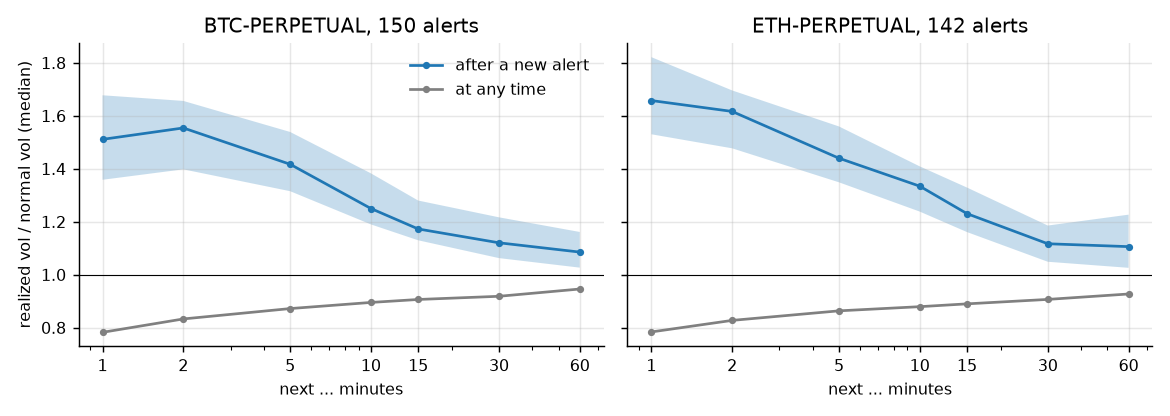
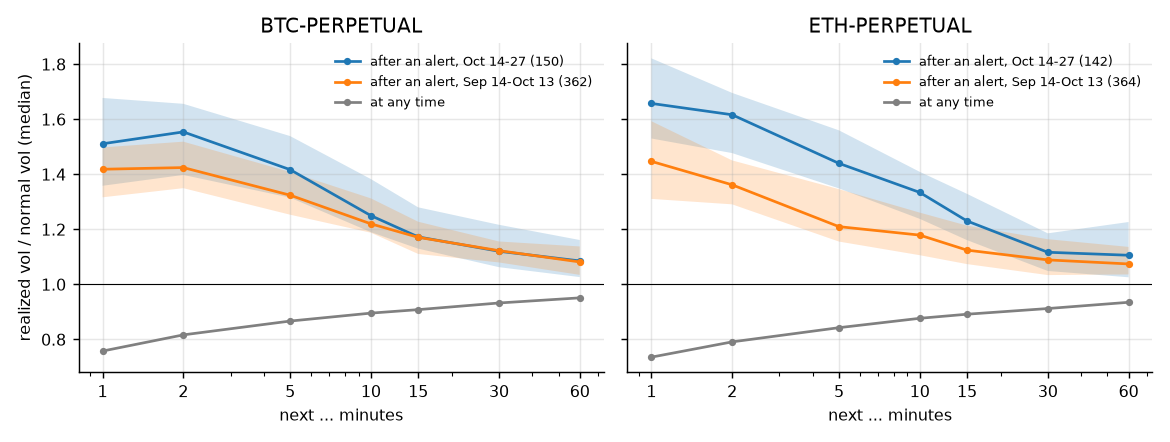
Add a held-out month to the evaluation and a dashboard screenshot

diff --git a/scripts/make_figures.py b/scripts/make_figures.py
@@ -1,11 +1,13 @@
 """Regenerate the figures in docs/img from the Deribit trade tape.
 
-python scripts/make_figures.py --end 2026-10-28 --days 14
+python scripts/make_figures.py
+
+Samples: 2026-10-14 to 2026-10-27 (the period the README was first written on) and
+2026-09-14 to 2026-10-13 (held out, analyzed afterwards with the same parameters).
 """
 
 from __future__ import annotations
 
-import argparse
 from pathlib import Path
 
 import matplotlib.pyplot as plt
@@ -29,20 +31,29 @@ plt.rcParams.update(
 INSTRUMENTS = ["BTC-PERPETUAL", "ETH-PERPETUAL"]
 
 
-def after_episodes(studies) -> None:
-    fig, axes = plt.subplots(1, 2, figsize=(9, 3.2), sharey=True)
-    for ax, s in zip(axes, studies, strict=True):
-        p = s.profile
-        ax.fill_between(p.index, p["ci low"], p["ci high"], alpha=0.25, lw=0)
-        ax.plot(p.index, p["after episode start"], marker="o", ms=3, label="after a new alert")
+def after_episodes(samples: dict[str, list]) -> None:
+    """One panel per instrument, one line per sample, with the unconditional median."""
+    fig, axes = plt.subplots(1, len(INSTRUMENTS), figsize=(9, 3.4), sharey=True)
+    for ax, inst in zip(axes, INSTRUMENTS, strict=True):
+        for label, studies in samples.items():
+            s = next(x for x in studies if x.instrument == inst)
+            p = s.profile
+            ax.fill_between(p.index, p["ci low"], p["ci high"], alpha=0.2, lw=0)
+            ax.plot(
+                p.index,
+                p["after episode start"],
+                marker="o",
+                ms=3,
+                label=f"after an alert, {label} ({len(s.episodes)})",
+            )
         ax.plot(p.index, p["any time"], marker="o", ms=3, color="grey", label="at any time")
         ax.axhline(1, color="black", lw=0.6)
         ax.set_xscale("log")
         ax.set_xticks(p.index, [str(m) for m in p.index])
         ax.set_xlabel("next ... minutes")
-        ax.set_title(f"{s.instrument}, {len(s.episodes)} alerts")
+        ax.set_title(inst)
+        ax.legend(loc="upper right", fontsize=7)
     axes[0].set_ylabel("realized vol / normal vol (median)")
-    axes[0].legend(loc="upper right")
     fig.tight_layout()
     fig.savefig(OUT / "after_alert.png")
 
@@ -82,14 +93,13 @@ def example(study, hours: float = 1.5) -> None:
 
 
 def main() -> None:
-    p = argparse.ArgumentParser()
-    p.add_argument("--end", default="2026-10-28")
-    p.add_argument("--days", type=int, default=14)
-    args = p.parse_args()
     OUT.mkdir(parents=True, exist_ok=True)
-    studies = [run_study(i, days=args.days, end=args.end) for i in INSTRUMENTS]
-    after_episodes(studies)
-    example(studies[0])
+    samples = {
+        "Oct 14-27": [run_study(i, days=14, end="2026-10-28") for i in INSTRUMENTS],
+        "Sep 14-Oct 13": [run_study(i, days=30, end="2026-10-14") for i in INSTRUMENTS],
+    }
+    after_episodes(samples)
+    example(samples["Oct 14-27"][0])
 
 
 if __name__ == "__main__":

diff --git a/README.md b/README.md
@@ -16,11 +16,18 @@ When vol 1m reaches 2× normal, the state goes to `ELEVATED`; at 3×, it goes to
 The repository also replays the detector on the past trade tape and measures what its alerts were worth. Only Deribit's public API is used, so no account or key is needed.
 
 ```
-10s bars | vol 1m = EWMA half-life 60s, normal = 30m | elevated >= 2x, spike >= 3x, reset < 1.5x | 07:58:40 UTC
+10s bars | vol 1m = EWMA half-life 60s, normal = 30m | elevated >= 2x, spike >= 3x, reset < 1.5x | 08:56:20 UTC
 
-                 price    state    for ratio vol 1m normal move 1m 1sd 1m trades  dvol
-BTC-PERPETUAL 80,997.0   NORMAL 12m20s 1.52x  18.5%  12.2%  +0.04%  20.63   2.6x 37.3%
-ETH-PERPETUAL  2,358.5 ELEVATED  1m40s 2.31x  46.7%  20.2%  +0.09%   1.52   2.2x 53.0%
+                 price  state    for ratio vol 1m normal move 1m 1sd 1m trades  dvol
+BTC-PERPETUAL 81,420.5 NORMAL 16m30s 0.77x  27.6%  35.8%  +0.1bp  31.05   0.5x 37.2%
+ETH-PERPETUAL  2,369.9 NORMAL 17m50s 0.34x  18.0%  52.3%  -0.6bp   0.59   0.5x 52.3%
+
+alerts
+08:35:40  ETH-PERPETUAL    normal -> elevated  ratio 2.76x  vol 1m 158.7%  normal  57.5%  move 1m +38.1bp  @ 2,379.8  (history)
+08:35:40  BTC-PERPETUAL    normal -> elevated  ratio 2.35x  vol 1m  72.2%  normal  30.7%  move 1m +18.3bp  @ 81,547.5  (history)
+08:26:40  ETH-PERPETUAL    normal -> spike     ratio 4.20x  vol 1m 192.8%  normal  45.9%  move 1m +40.7bp  @ 2,373.9  (history)
+08:26:40  BTC-PERPETUAL  elevated -> spike     ratio 4.04x  vol 1m  96.1%  normal  23.8%  move 1m +22.4bp  @ 81,322.0  (history)
+08:26:30  BTC-PERPETUAL    normal -> elevated  ratio 2.60x  vol 1m  45.6%  normal  17.6%  move 1m  +7.5bp  @ 81,203.0  (history)
 ```
 
 ![Example](docs/img/example.png)
@@ -28,6 +35,12 @@ ETH-PERPETUAL  2,358.5 ELEVATED  1m40s 2.31x  46.7%  20.2%  +0.09%   1.52   2.2x
 *The largest alert in the sample. At 12:30 UTC, BTC falls 0.9% in 30 seconds and 1.3% within three minutes. The ratio jumps to 5×. The monitor stays at SPIKE for about 4 minutes, then at ELEVATED, and returns to NORMAL 5½ minutes after the move. The ELEVATED alert at 12:05 is a smaller burst that faded on its own.*
 
 ---
+
+## Dashboard
+
+`streamlit run dashboard/app.py` shows the same monitor with the last hours of price and ratio, alert periods shaded (orange = elevated, red = spike), and the alert list.
+
+![Dashboard](docs/img/dashboard.png)
 
 ## What each column means
 
@@ -43,6 +56,8 @@ ETH-PERPETUAL  2,358.5 ELEVATED  1m40s 2.31x  46.7%  20.2%  +0.09%   1.52   2.2x
 | `trades` | trades per bar, fast / slow average | activity often surges together with volatility |
 | `dvol` | Deribit's 30-day implied volatility index | the options market's view, for context |
 
+Alerts marked `(history)` were found in the three hours of trades loaded at start-up. They are listed so the alert list matches the charts, but they are not sent to the alert log.
+
 Alerts are also written with `--log`, one JSON object per line. The record below comes from a replay of 2026-10-14; `dvol` is null because the replay has no DVOL feed.
 
 ```json
@@ -51,29 +66,37 @@ Alerts are also written with `--log`, one JSON object per line. The record below
 
 ## Does it work?
 
-The detector was replayed bar by bar on every Deribit trade from 2026-10-14 to 2026-10-27: 14 days, 4.6 million BTC trades and 1.5 million ETH trades. The parameters (10-second bars, half-lives of 1 and 30 minutes, thresholds 2 / 3 / 1.5) were fixed beforehand from the alert frequency alone and were not tuned on the results below. Reproduce with `volengine study BTC-PERPETUAL --end 2026-10-28`.
+The detector was replayed bar by bar on every Deribit trade over two periods:
+
+- **2026-10-14 to 2026-10-27**: 14 days, 4.6 million BTC and 1.5 million ETH trades. The README was first written on this period.
+- **2026-09-14 to 2026-10-13**: 30 days, 6.5 million BTC and 2.7 million ETH trades, held out and analyzed afterwards without changing anything.
+
+The parameters (10-second bars, half-lives of 1 and 30 minutes, thresholds 2 / 3 / 1.5) were set from the alert frequency alone and were never tuned on the outcomes below. Reproduce with `volengine study BTC-PERPETUAL --end 2026-10-28 --days 14`, or `--end 2026-10-14 --days 30` for the held-out period.
 
 **After an alert, is the next stretch of time more violent?** The sample is cut into non-overlapping 5-minute windows. For each window, the detector's state is read at its start, using past data only. A window is *violent* if its realized volatility is at least 2× the normal volatility at its start.
 
-| | BTC | ETH |
-|---|---:|---:|
-| alerts per day (of which to `SPIKE`) | 15.4 (1.4) | 14.6 (2.1) |
-| time spent flagged | 3.3% | 2.9% |
-| P(next 5 min violent), state `NORMAL` | 1.8% [1.4, 2.2] | 1.9% [1.5, 2.4] |
-| P(next 5 min violent), state `ELEVATED` | 11.8% [6.2, 17.2] | 17.3% [10.1, 24.5] |
-| P(next 5 min violent), state `SPIKE` | 21% [0, 45] | 27% [10, 44] |
-| lift (flagged / not flagged) | **7.2** [4.2, 10.8] | **10.1** [6.1, 15.2] |
-| violent windows already flagged at their start | 20% [12, 27] | 24% [15, 32] |
+| | BTC Oct | BTC Sep (held out) | ETH Oct | ETH Sep (held out) |
+|---|---:|---:|---:|---:|
+| alerts per day (of which to `SPIKE`) | 15.4 (1.4) | 18.0 (2.0) | 14.6 (2.1) | 18.6 (2.7) |
+| time spent flagged | 3.3% | 3.4% | 2.9% | 3.4% |
+| P(next 5 min violent), state `NORMAL` | 1.8% [1.4, 2.2] | 2.0% [1.7, 2.3] | 1.9% [1.5, 2.4] | 2.2% [1.9, 2.6] |
+| P(next 5 min violent), state `ELEVATED` | 12% [6, 17] | 10% [6, 13] | 17% [10, 25] | 10% [7, 14] |
+| P(next 5 min violent), state `SPIKE` | 21% [0, 45] | 31% [15, 48] | 27% [10, 44] | 30% [17, 44] |
+| **lift** (flagged / not flagged) | **7.2** [4.2, 10.8] | **6.2** [4.2, 8.5] | **10.1** [6.1, 15.2] | **5.9** [4.2, 7.8] |
+| violent windows already flagged at their start | 20% [12, 27] | 18% [13, 23] | 24% [15, 32] | 17% [12, 22] |
 
 95% intervals in brackets, from a stationary block bootstrap with one-hour blocks.
 
-**How long does it last?** The figure below shows realized volatility over the next 1 to 60 minutes after each new alert, relative to normal. Alerts are kept only if they are at least 30 minutes apart: 150 on BTC, 142 on ETH.
+- Being flagged makes a violent next five minutes roughly 6 to 10 times more likely, on both instruments and in both periods.
+- In every case, the lower bound of the interval is above 4.
+
+**How long does it last?** The figure below shows realized volatility over the next 1 to 60 minutes after each new alert, relative to normal. Alerts are kept only if they are at least 30 minutes apart.
 
 ![After an alert](docs/img/after_alert.png)
 
-- In the minute after an alert, volatility runs at 1.5× normal on BTC and 1.7× on ETH. At a random moment the median is 0.8×.
-- The excess halves in about 10 minutes and is nearly gone after an hour, at 1.1×.
-- The alert does not predict the first jump. Four out of five violent windows start while the monitor is still at `NORMAL`, because the move arrives in a single print (data releases, liquidations). The alert says that a high-volatility regime has started and that it tends to last several minutes. That is the information a trader can act on.
+- In the minute after an alert, volatility runs at 1.4× to 1.7× normal. At a random moment the median is 0.75×.
+- The excess halves in about 10 minutes and is nearly gone after an hour, at about 1.1×.
+- **The alert does not predict the first jump.** About four out of five violent windows start while the monitor is still at `NORMAL`, because the move arrives in a single print (data releases, liquidations). The alert says that a high-volatility regime has started and that it tends to last several minutes. That is the information a trader can act on.
 
 ## Usage
 
@@ -140,7 +163,7 @@ Design choices:
 
 ## Limitations
 
-- **Two weeks of data.** The study covers 14 days, one market regime. The `SPIKE` rows rest on 14 and 22 windows, hence their wide intervals. Run `volengine study --days 60` for a longer sample.
+- **Six weeks of data.** The two periods together cover 44 days, which is short next to the variety of crypto market conditions. The `SPIKE` rows rest on 14 to 43 windows, hence their wide intervals.
 - **Trade prices, not quotes.** Deribit does not publish historical order-book quotes, so both the study and the monitor use trades to stay identical. Quotes would give a cleaner price on illiquid instruments.
 - **No intraday seasonality model.** The 30-minute normal level adapts to the time of day only gradually. In the sample, 13:00–14:00 UTC (around the US equity open) has more than twice the average hourly number of alerts, and 12:00–16:00 UTC accounts for about a quarter of them. This is intended: those are the hours when volatility actually changes.
 - **Scope.** The study measures how violent the next minutes are, not their direction. It is not a trading signal by itself.
